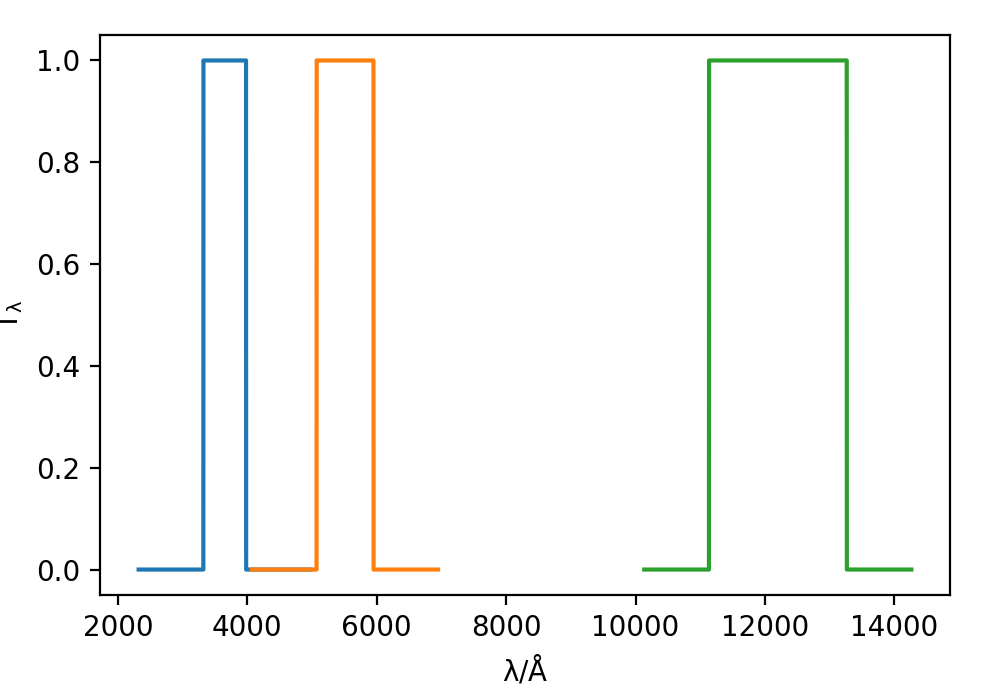
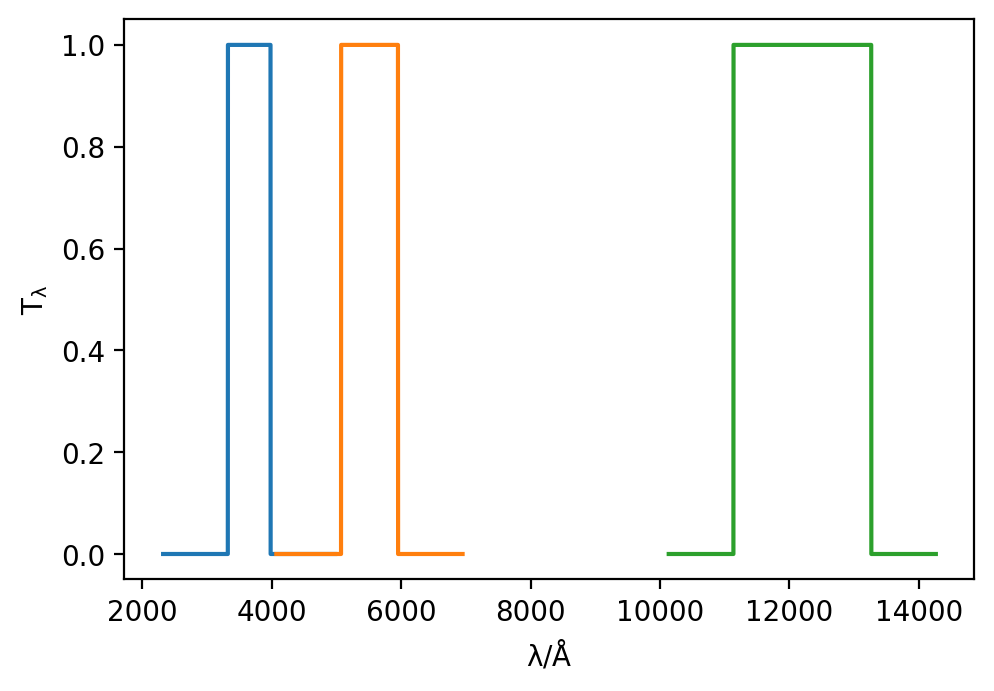
fixed images and headings

Changed region(s): [[0.0312, 0.0, 0.998, 0.9725], [0.0, 0.4255, 0.0312, 0.4863]]

diff --git a/docs/source/filters.rst b/docs/source/filters.rst
@@ -1,5 +1,5 @@
 Filters
-#######
+*******
 
 Synthesizer allows us to define filters quite flexibly.
 The `filters.py` example in the `examples` directory demonstrates this.
